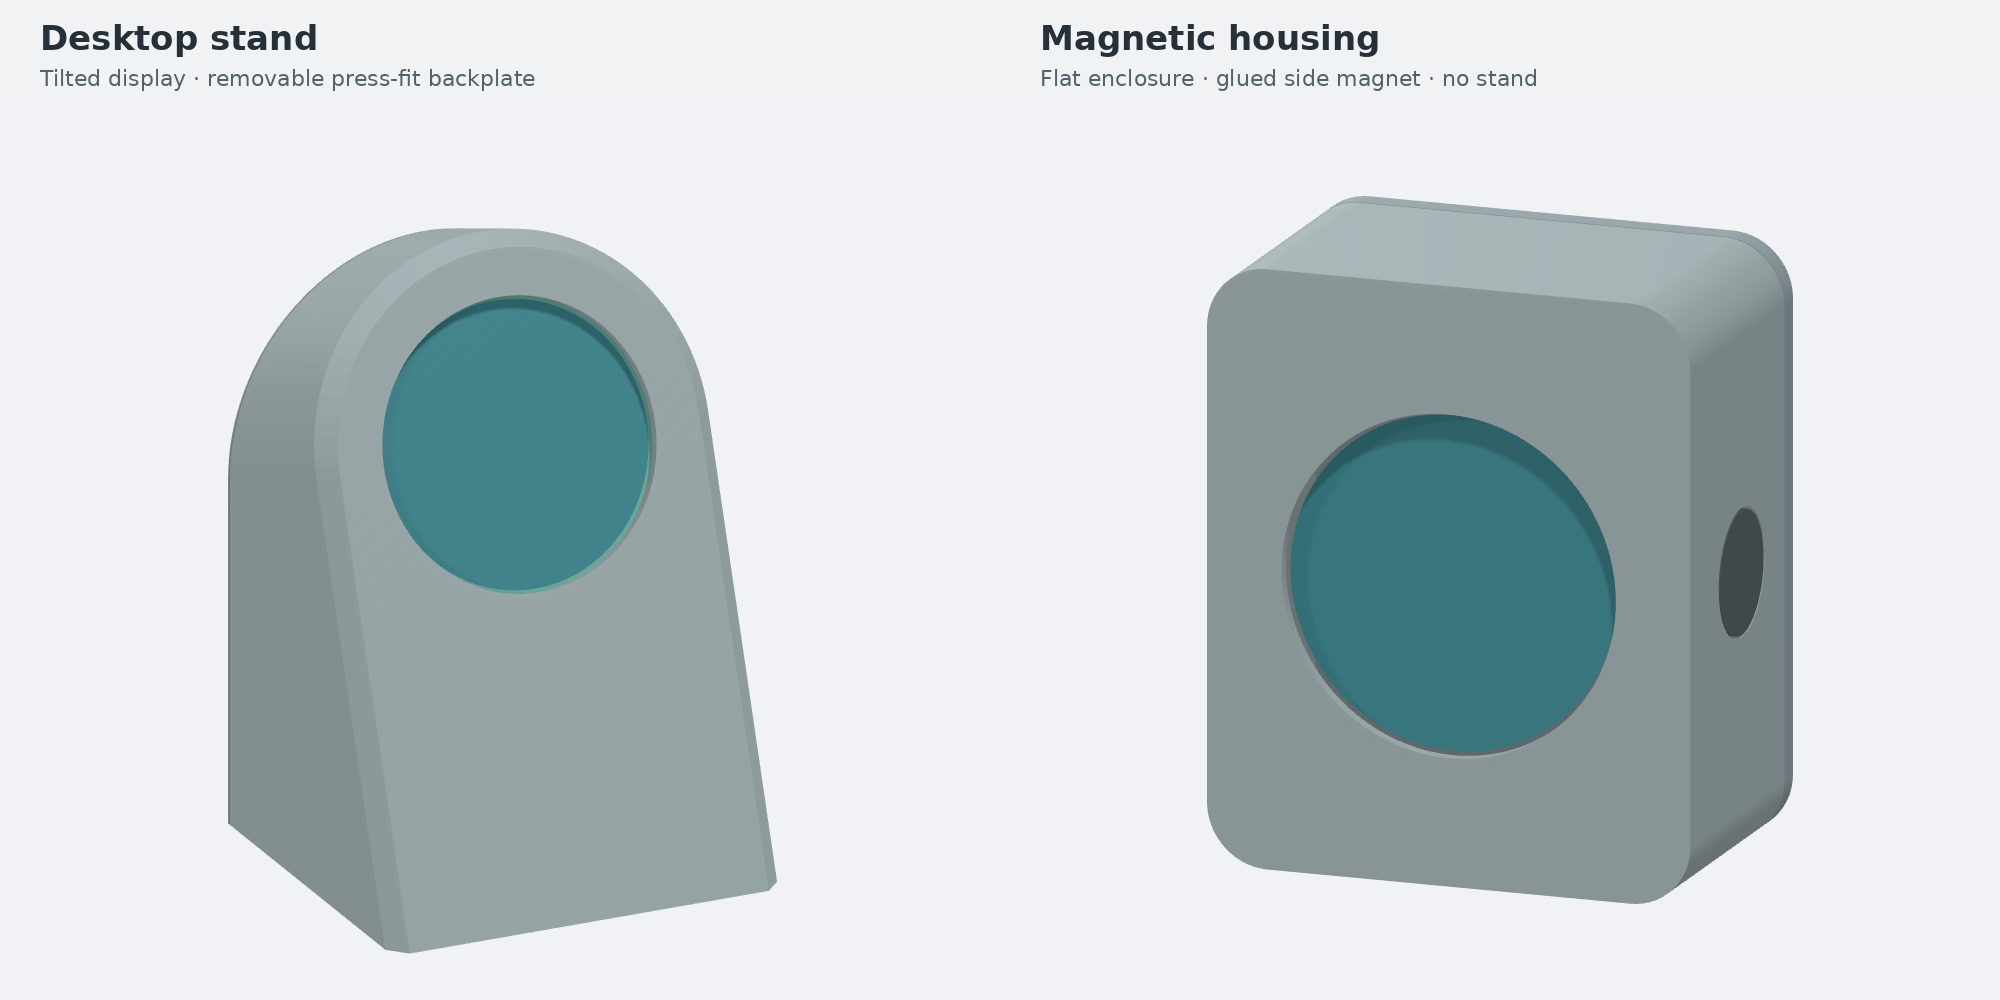
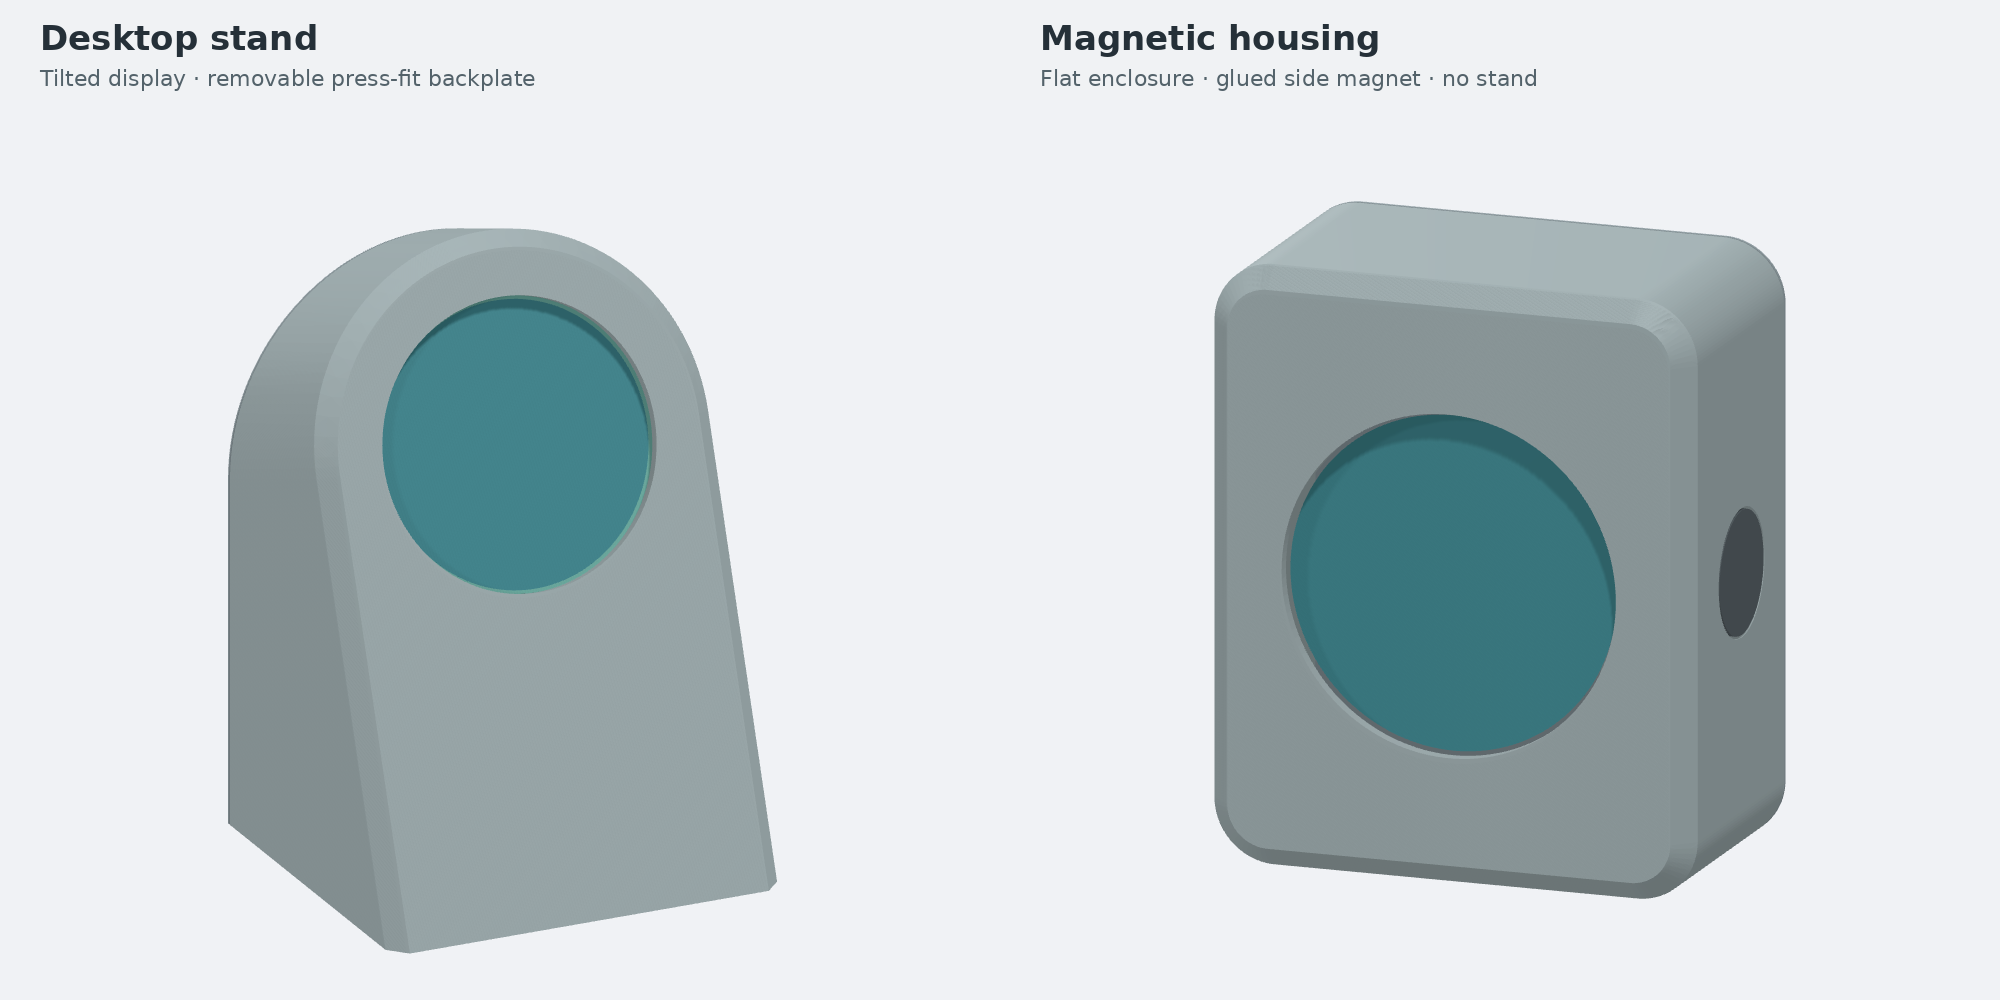
feat(housing): chamfer magnetic enclosure

diff --git a/housing/cad/magnetic.py b/housing/cad/magnetic.py
@@ -14,7 +14,7 @@ from .positions import validate_positions, USB_ANGLES
 # PARAMETERS — mm unless marked degrees
 # ============================================================
 width, height, depth = 48.0, 58.0, 28.0
-wall, corner_radius = 2.4, 6.0
+wall, corner_radius, chamfer = 2.4, 6.0, 2.0
 cover_thickness, seam_gap = 2.4, 0.2
 screen_diameter, recess_radius, front_lip = 33.2, 18.4, 1.2
 board_recess, pcb_back, pcb_gap = -2.85, -5.25, .15
@@ -89,7 +89,10 @@ def build(usb='left', magnet='right'):
     def board_pose(shape):
         return pose(rotate(shape))
 
-    outer = rounded_box(width,depth,height,corner_radius).translate((0,0,height/2))
+    raw_outer = rounded_box(width,depth,height,corner_radius).translate((0,0,height/2))
+    # Match the desktop stand's exterior bevel while preserving the flat base.
+    chamfer_edges = [e for e in raw_outer.edges().vals() if e.BoundingBox().zmax > eps]
+    outer = raw_outer.newObject(chamfer_edges).chamfer(chamfer)
     split = depth/2-cover_thickness
     root = split+seam_gap/2
     cavity = rounded_box(width-2*wall,depth,height-2*wall,corner_radius-wall).translate((0,wall,height/2))
@@ -287,6 +290,7 @@ def main(usb='left', magnet='right'):
     report.update(usb=usb,magnet=magnet,dimensions_mm=[width,depth,height],
                   stage='feature prototype; physical fit unverified',rim_depth_mm=rim_depth,
                   rim_clearance_mm=rim_clearance,rib_interference_mm=rim_rib_projection-rim_clearance,
+                  exterior_chamfer_mm=chamfer,
                   magnet_pocket_mm=[magnet_diameter+magnet_diameter_clearance,magnet_thickness+magnet_glue_depth])
     (out/'fit-check.json').write_text(json.dumps(report,indent=2)+'\n')
     from .previews import render_magnetic_preview

diff --git a/housing/docs/magnetic.md b/housing/docs/magnetic.md
@@ -14,7 +14,7 @@ Superseded shape studies are available in Git history.
 | Glue allowance | 0.25 mm radial; 0.5 mm behind a flush magnet |
 | Plastic backing behind pocket | 1.2 mm |
 | Default positions, viewed from display | USB left; magnet right |
-| Body walls / outline corners | 2.4 mm / R6 |
+| Body walls / outline corners / exterior chamfer | 2.4 mm / R6 / 2 mm |
 | Backplate locating rim | 3.5 mm deep, 1.4 mm wall |
 | Rim clearance / friction ribs | 0.15 mm / four ribs with 0.05 mm interference |
 | Rim insertion bevel | 0.4 mm |
